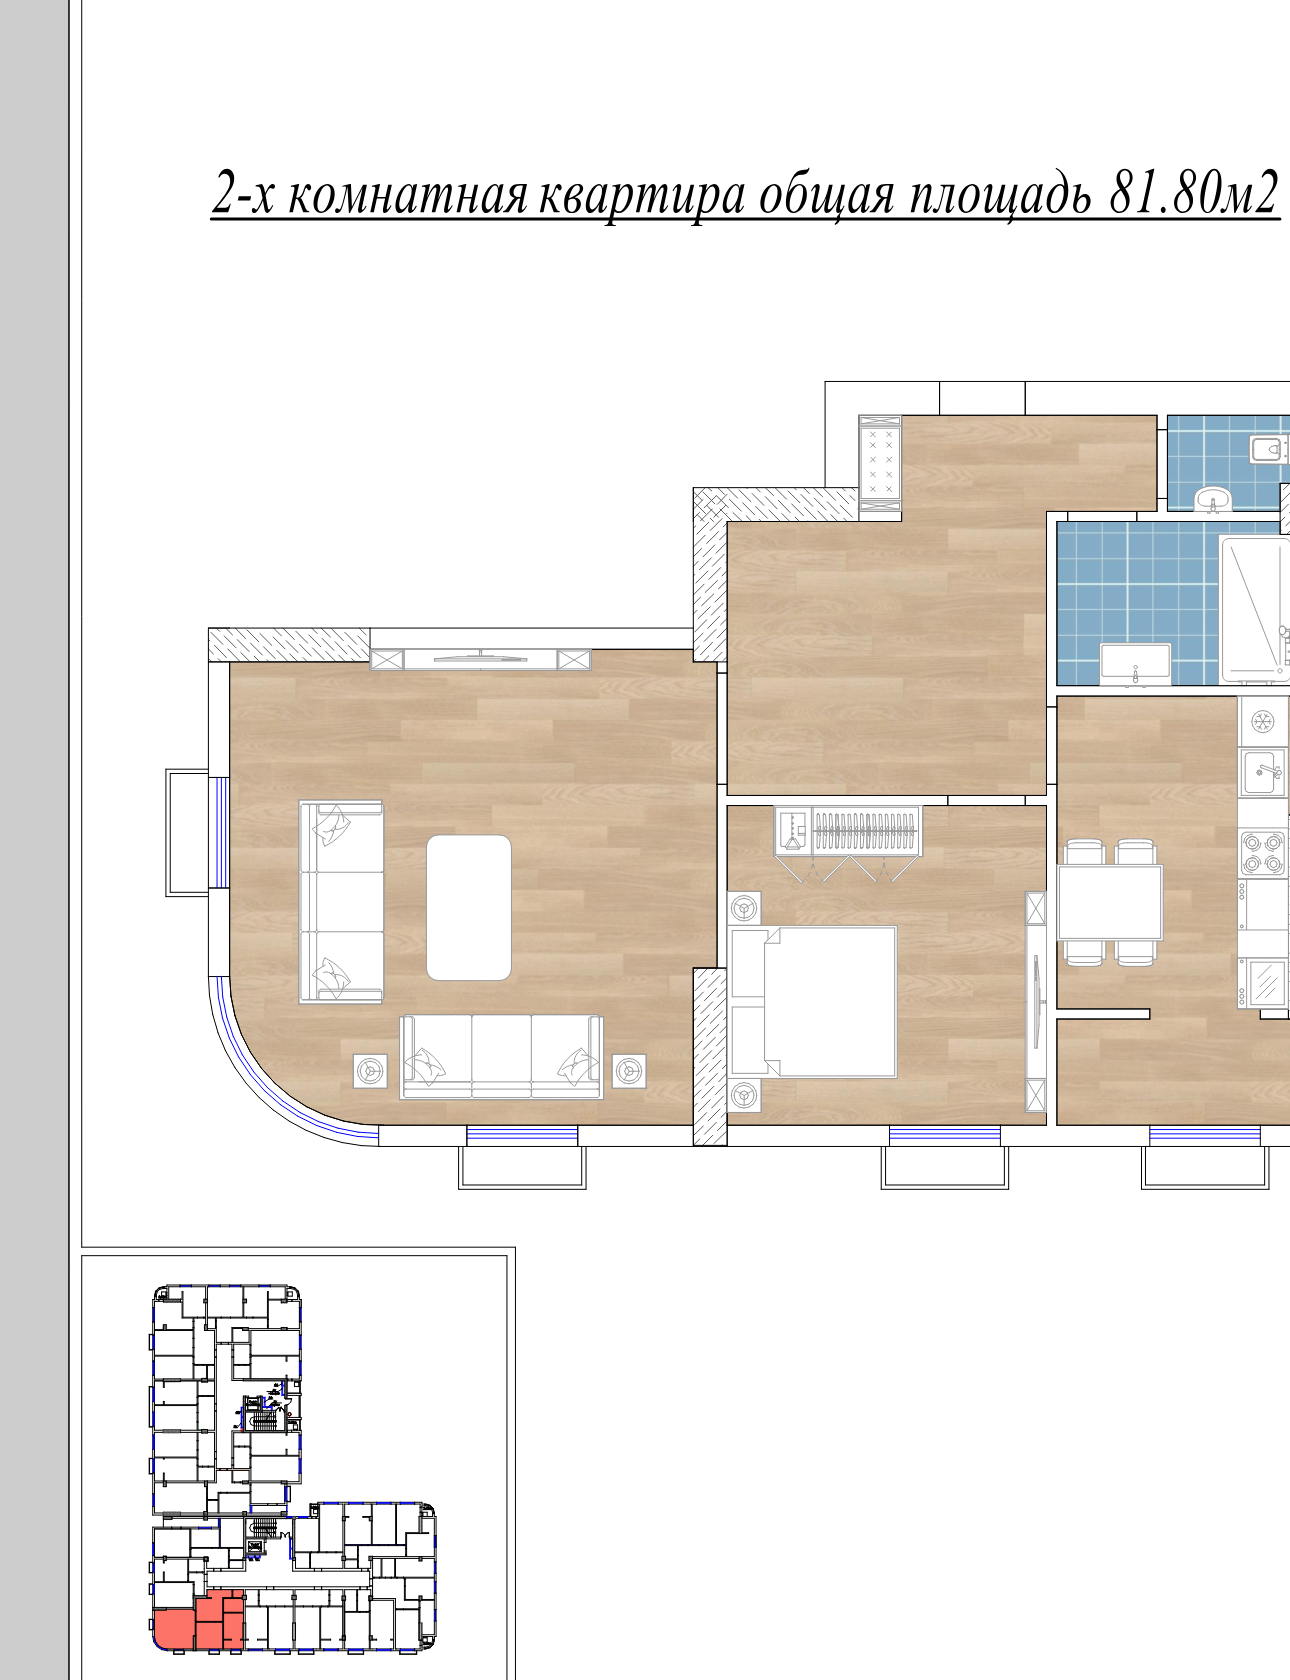
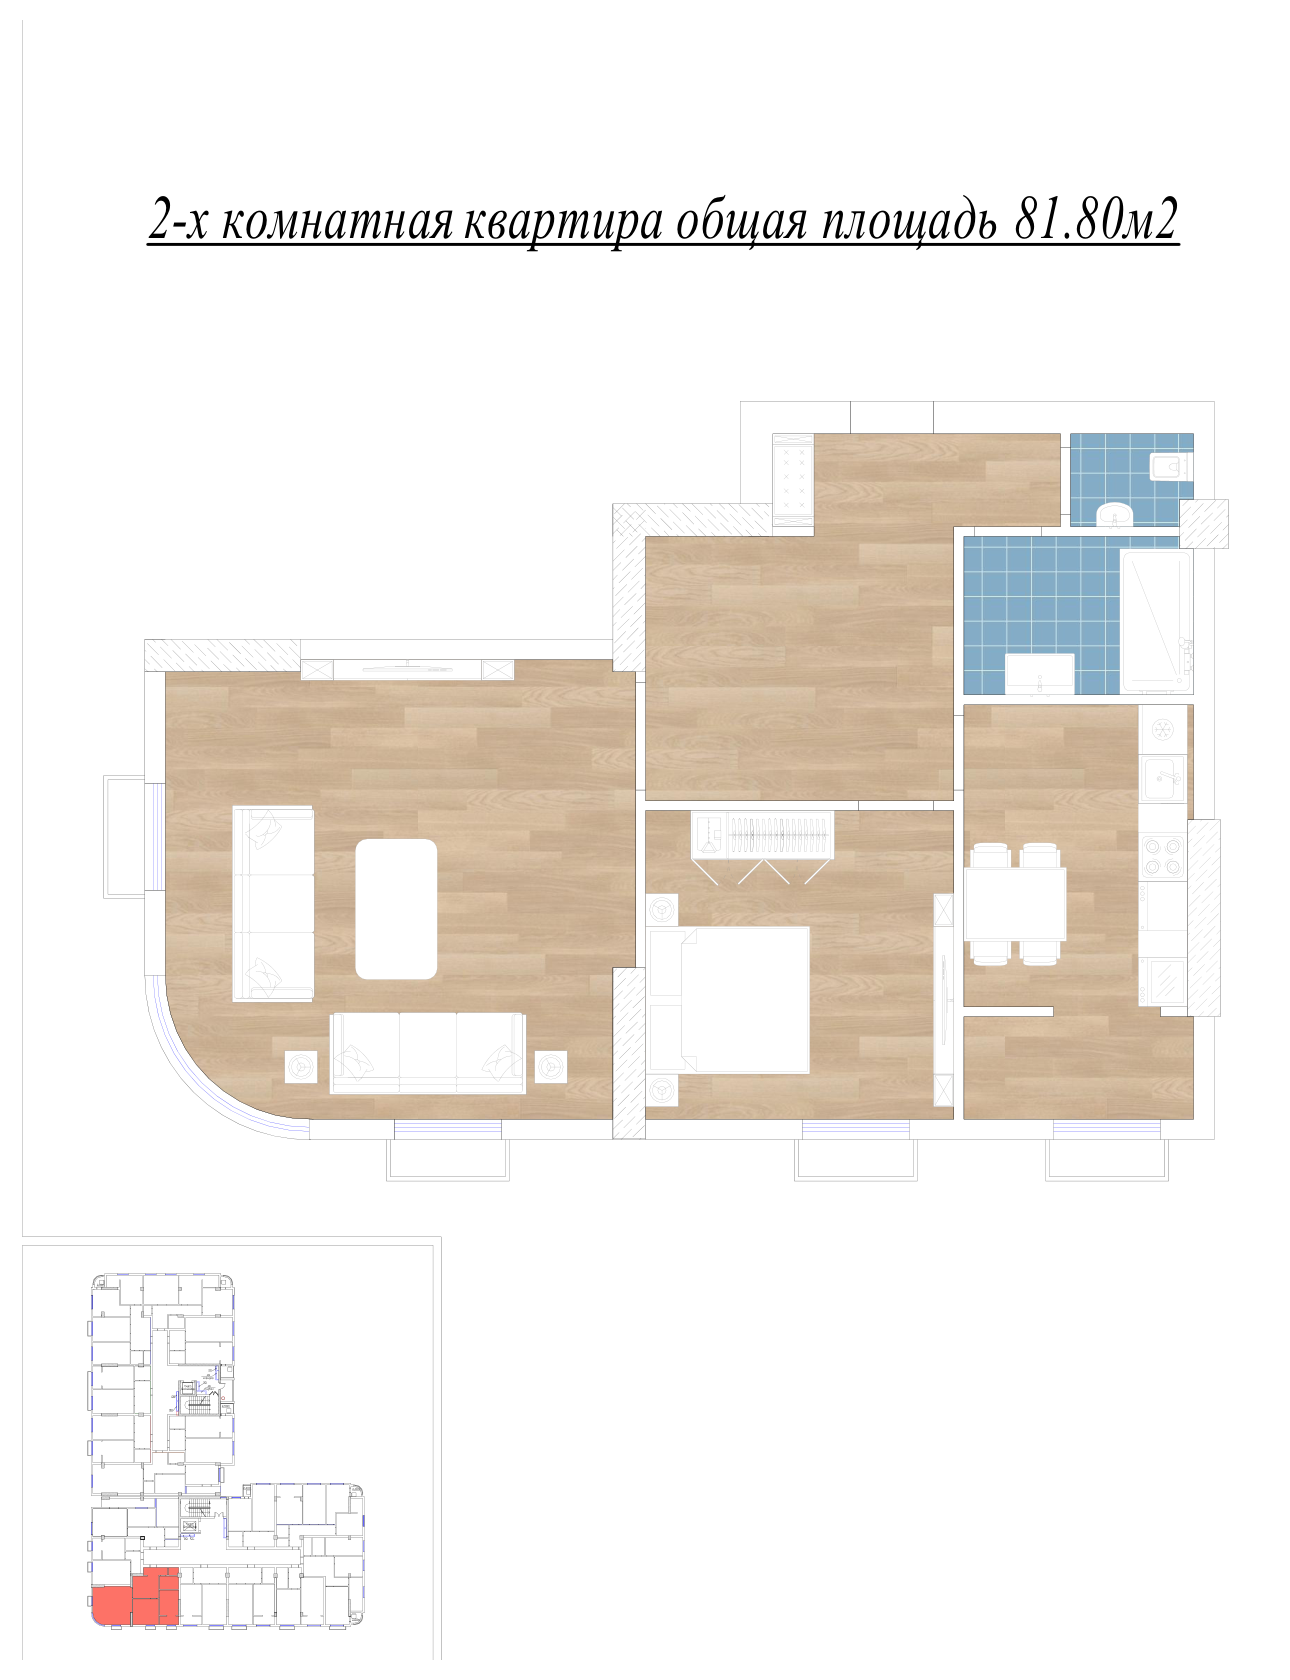
fix: fit complete 81.80 sqm technical plan from source PDF

Changed region(s): [[0.124, 0.2167, 1.0, 0.7119], [0.0, 0.0, 0.3411, 1.0], [0.124, 0.0929, 0.9922, 0.1548]]

diff --git a/scripts/catalog/fit_block_b_type03_plan.py b/scripts/catalog/fit_block_b_type03_plan.py
@@ -1,0 +1,33 @@
+"""Render the complete 81.80 m² technical panel from the owner PDF.
+
+Usage: python3 scripts/catalog/fit_block_b_type03_plan.py SOURCE.pdf
+Requires PyMuPDF. No geometry is generated or redrawn.
+"""
+import argparse
+import hashlib
+from pathlib import Path
+import fitz
+
+parser = argparse.ArgumentParser()
+parser.add_argument('source', type=Path)
+args = parser.parse_args()
+root = Path(__file__).resolve().parents[2]
+source = fitz.open(args.source)
+page_index = 35
+if '81.80' not in source[page_index].get_text():
+    raise ValueError('Expected the 81.80 m² apartment on PDF page 36')
+output = fitz.open()
+page = output.new_page(width=1290, height=1680)
+# Left panel of the landscape sheet, including the full technical plan,
+# heading and location diagram. Fit the entire panel instead of cutting a
+# fixed-width strip from a height-scaled landscape sheet.
+page.show_pdf_page(fitz.Rect(18, 18, 1272, 1662), source, page_index,
+                   clip=fitz.Rect(55, 15, 488, 581), keep_proportion=True)
+pixels = page.get_pixmap(alpha=False)
+for relative in (
+    'public/layouts/block_b/catalog/block_b_typical_type_03_81_80m2_2d.png',
+    'public/layouts/block_b/typical/type_03_81_80m2/2d_technical_plan.png',
+):
+    pixels.save(root / relative)
+print('Source SHA-256:', hashlib.sha256(args.source.read_bytes()).hexdigest())
+print('Rendered complete technical panel: 1290 × 1680')

diff --git a/docs/catalog/block_b_type03_2d_fit.md b/docs/catalog/block_b_type03_2d_fit.md
@@ -1,0 +1,10 @@
+# Complete technical plan for Block B type 3
+
+The 81.80 m² technical PNG was clipped at the right edge during its original export. The source landscape PDF contains the complete plan. The corrected export fits its entire left panel, including the kitchen, bathrooms, heading and location diagram, into a 1290 × 1680 image with a small white margin.
+
+- Source: owner-provided `Автовокзал парковка(1).pdf`, page 36 (index 35).
[1 lines of base64/hex data omitted]
+- Reproduce: `python3 scripts/catalog/fit_block_b_type03_plan.py SOURCE.pdf` (PyMuPDF).
+- Both catalogue and legacy technical-plan paths receive identical bytes.
+- The other 33 published Block B images match their previous checksums, including the furnished plan for this type.
+- No apartment data, image paths or room marker positions change.
